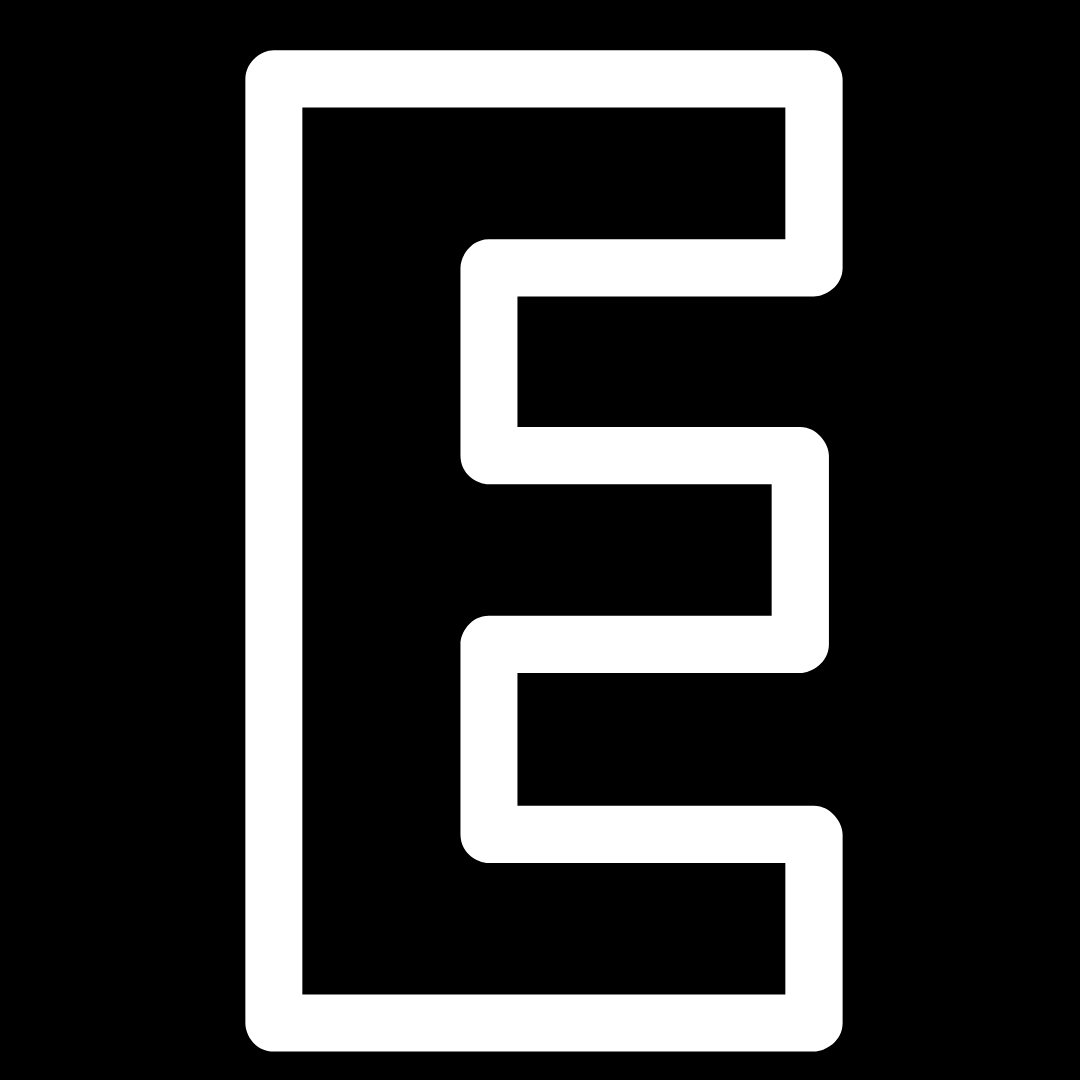
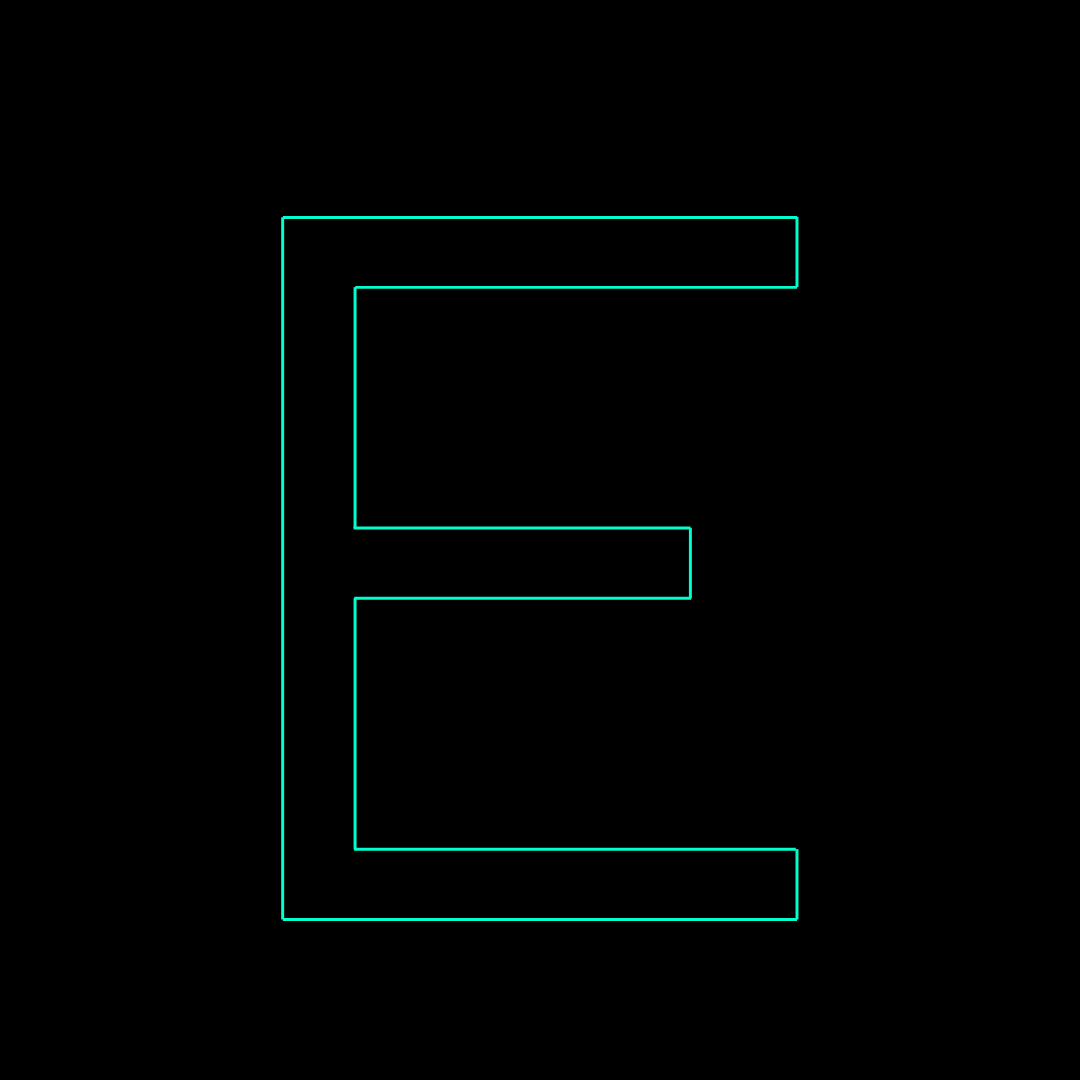
damn

Changed region(s): [[0.2139, 0.0306, 0.7944, 0.9778]]

diff --git a/main/blog.css b/main/blog.css
@@ -2667,14 +2667,15 @@ a {
     height: 100vh;
     background-position: 50% 50%, 0 0;
     background-repeat: no-repeat, repeat;
-    opacity: 0.14;
+    opacity: 0.35;
 }
 .featured-video.bg-w {
-    background-image: url(event_images/e2.png), radial-gradient(circle closest-corner at 50% 0, #e5e5e5, #000); 
+    background-image: url(event_images/e.png);
     background-size: 800px, auto;
 }
 .featured-video.bg-v {
-    background-image: url(event_images/e2.png), radial-gradient(circle closest-corner at 50% 0, #e5e5e5, #000); 
+    background-image: url(event_images/e.png); 
+    /* radial-gradient(circle closest-corner at 50% 0, #e5e5e5, #000) */
     background-size: 800px, auto;
 }
 .featured-video.bg-p {

diff --git a/main/about.html b/main/about.html
@@ -30,8 +30,8 @@
                 (n.className += t + "js"), ("ontouchstart" in o || (o.DocumentTouch && c instanceof DocumentTouch)) && (n.className += t + "touch");
             })(window, document);
         </script>
-        <link href="about_images/ecell_logo/favicon.png" rel="shortcut icon" type="image/x-icon" />
-        <link href="about_images/ecell_logo/favicon.png" rel="apple-touch-icon" />
+        <link href="home_images/favicon7.png" rel="shortcut icon" type="image/x-icon" />
+        <link href="home_images/favicon7.png" rel="apple-touch-icon" />
         
         <style>
             /* underline */

diff --git a/main/contact.html b/main/contact.html
@@ -30,8 +30,8 @@
                 (n.className += t + "js"), ("ontouchstart" in o || (o.DocumentTouch && c instanceof DocumentTouch)) && (n.className += t + "touch");
             })(window, document);
         </script>
-        <link href="about_images/ecell_logo/favicon.png" rel="shortcut icon" type="image/x-icon" />
-        <link href="about_images/ecell_logo/favicon.png" rel="apple-touch-icon" />
+        <link href="home_images/favicon7.png" rel="shortcut icon" type="image/x-icon" />
+        <link href="home_images/favicon7.png" rel="apple-touch-icon" />
         
         <style>
             /* underline */

diff --git a/main/blog.html b/main/blog.html
@@ -35,8 +35,8 @@
       (n.className += t + "js"), ("ontouchstart" in o || (o.DocumentTouch && c instanceof DocumentTouch)) && (n.className += t + "touch");
     })(window, document);
   </script>
-  <link href="about_images/favicon.png" rel="shortcut icon" type="image/x-icon" />
-  <link href="about_images/favicon.png" rel="apple-touch-icon" />
+  <link href="home_images/favicon7.png" rel="shortcut icon" type="image/x-icon" />
+  <link href="home_images/favicon7.png" rel="apple-touch-icon" />
 
   <meta content="width=device-width, initial-scale=1, maximum-scale=1, user-scalable=no" name="viewport" />
   <style>

diff --git a/main/index.html b/main/index.html
@@ -121,7 +121,7 @@
                 (n.className += t + "js"), ("ontouchstart" in o || (o.DocumentTouch && c instanceof DocumentTouch)) && (n.className += t + "touch");
             })(window, document);
         </script>
-        <link rel="icon" type="image/png" href="about_images/ecell_logo/favicon.png">
+        <link rel="icon" type="image/png" href="home_images/favicon7.png">
         
         <meta content="width=device-width, initial-scale=1, maximum-scale=1, user-scalable=no" name="viewport" />
         <style>

diff --git a/main/testindex.css b/main/testindex.css
@@ -4404,12 +4404,13 @@ a {
     right: 0;
     bottom: 0;
     width: 2px;
-    height: 90%;
+    /* height: 83%; */
+    height: 83%;
     background-color: hsla(0, 0%, 100%, 0.25);
 }
 .pathway-bar.scroll {
     z-index: 1;
-    height: 745px;
+    height: 230px;
     background-color: #00ffce;
 }
 .pathway-bar.scroll._02 {
